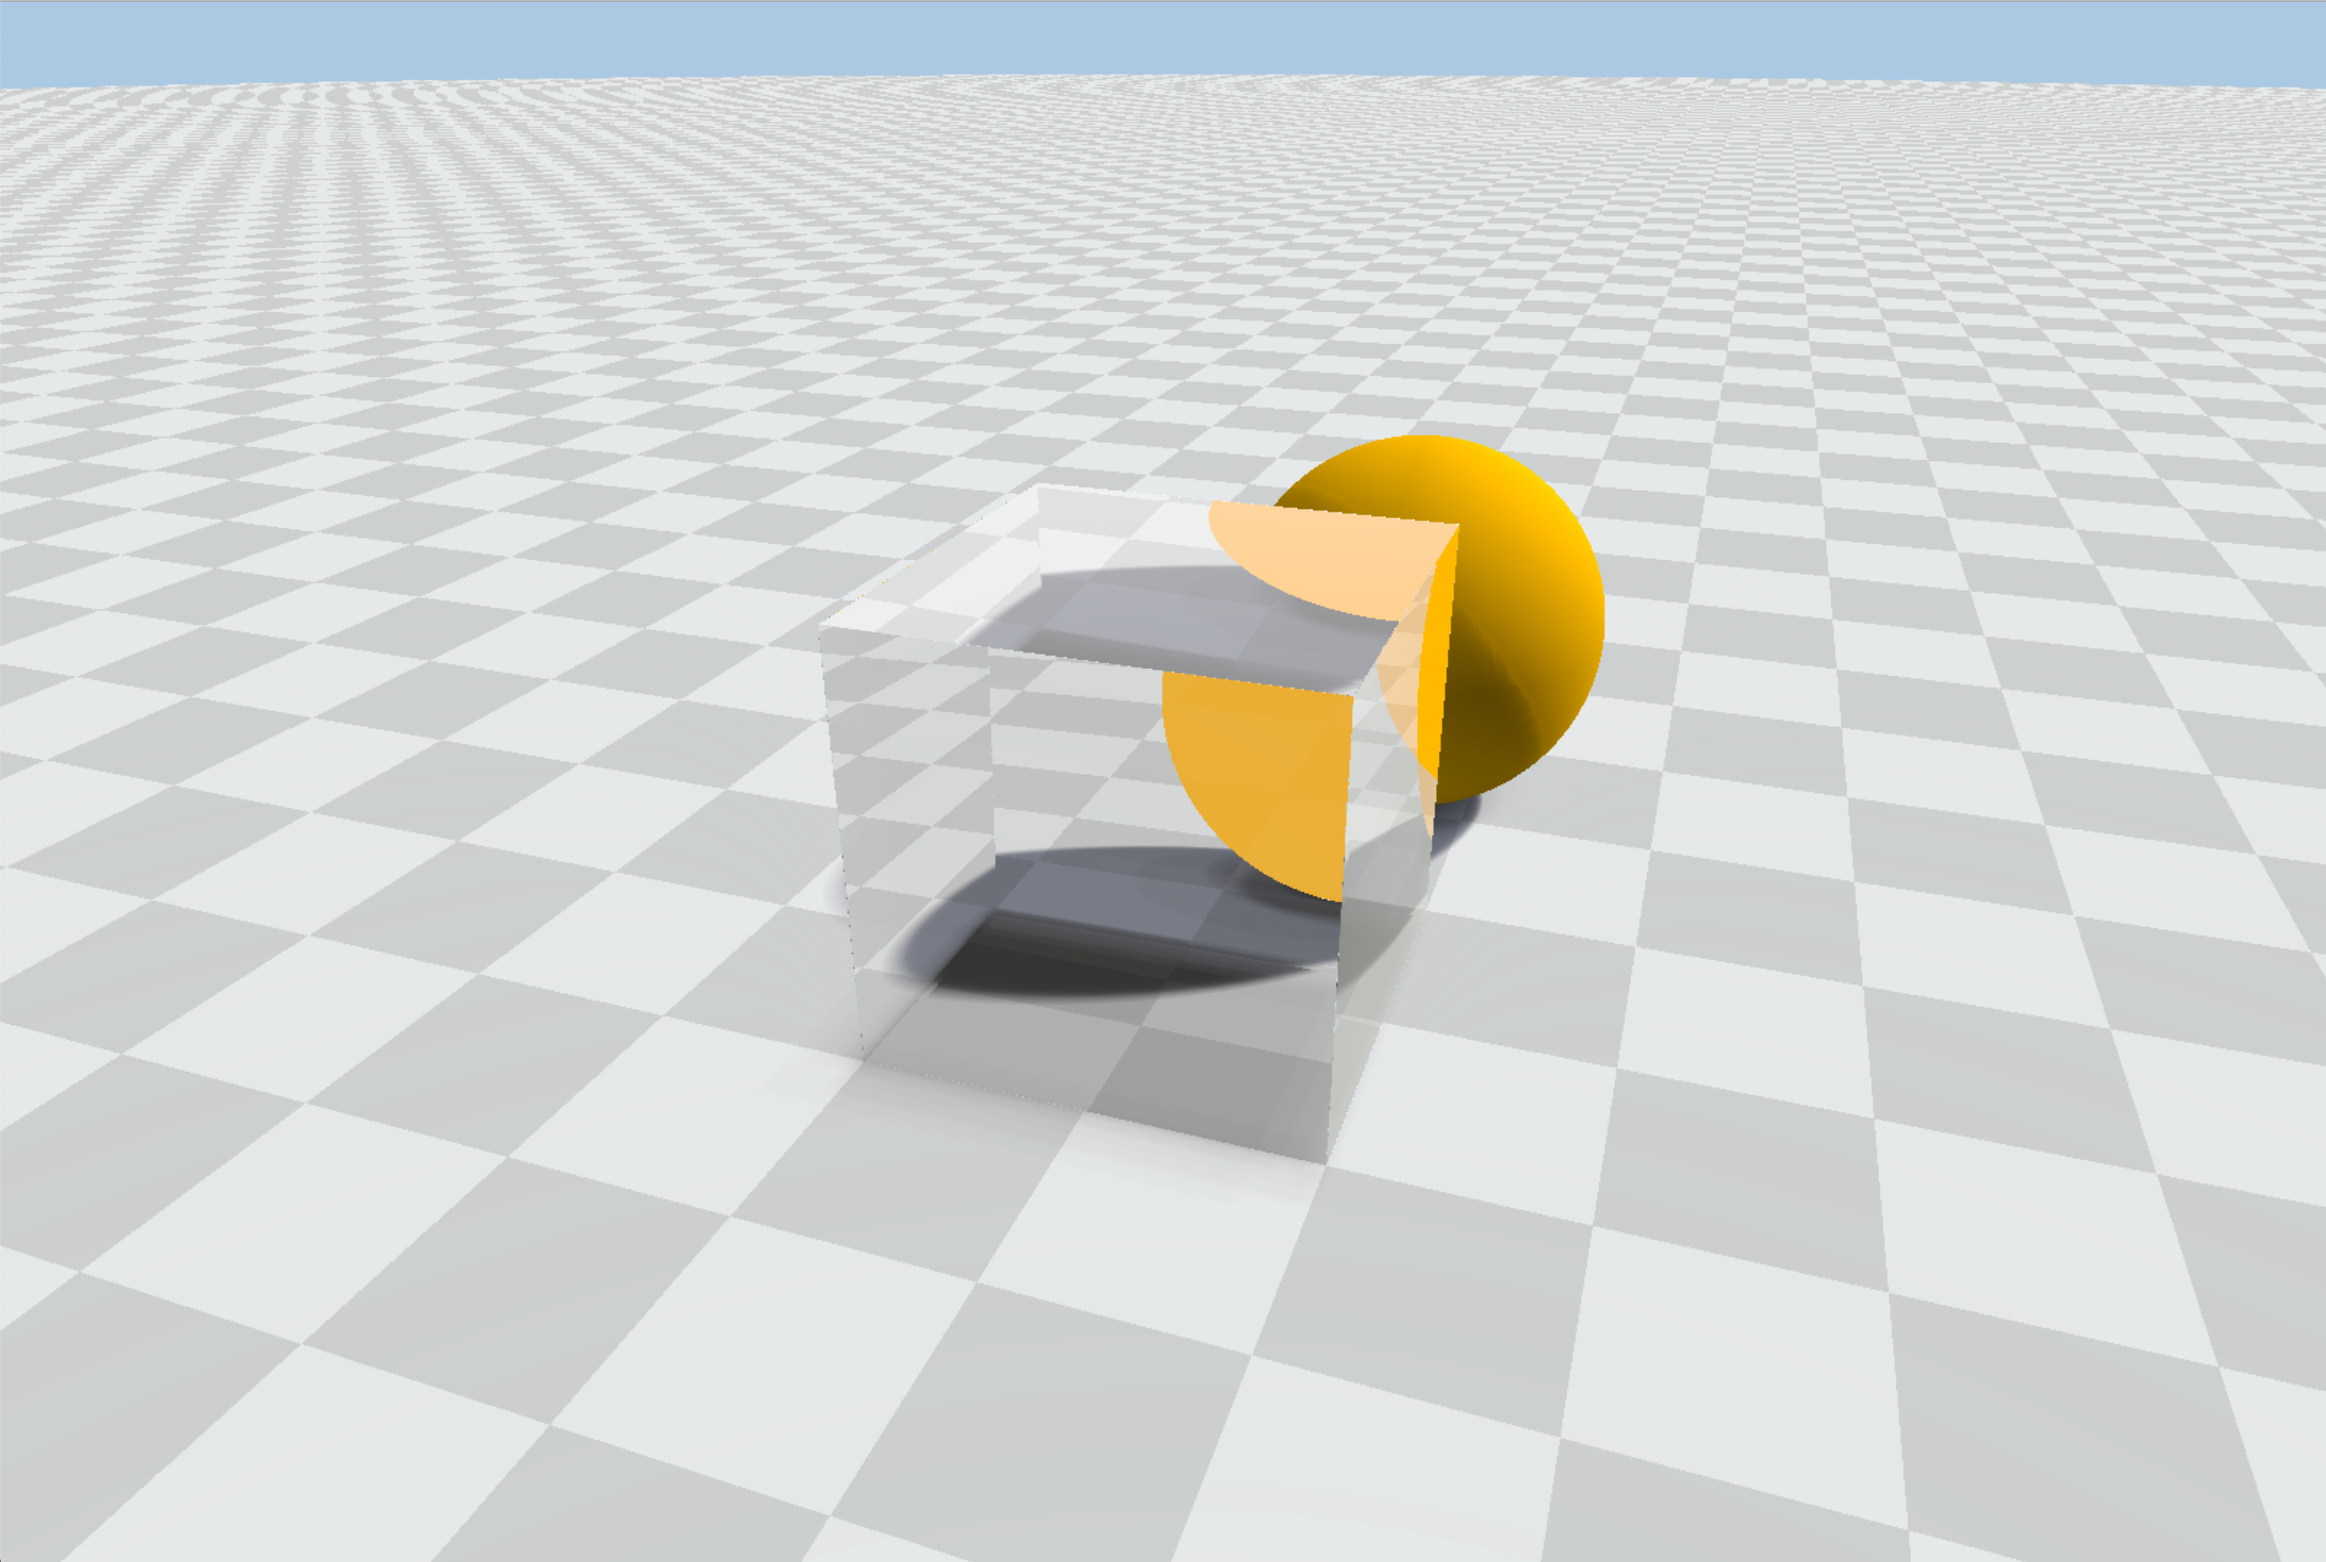
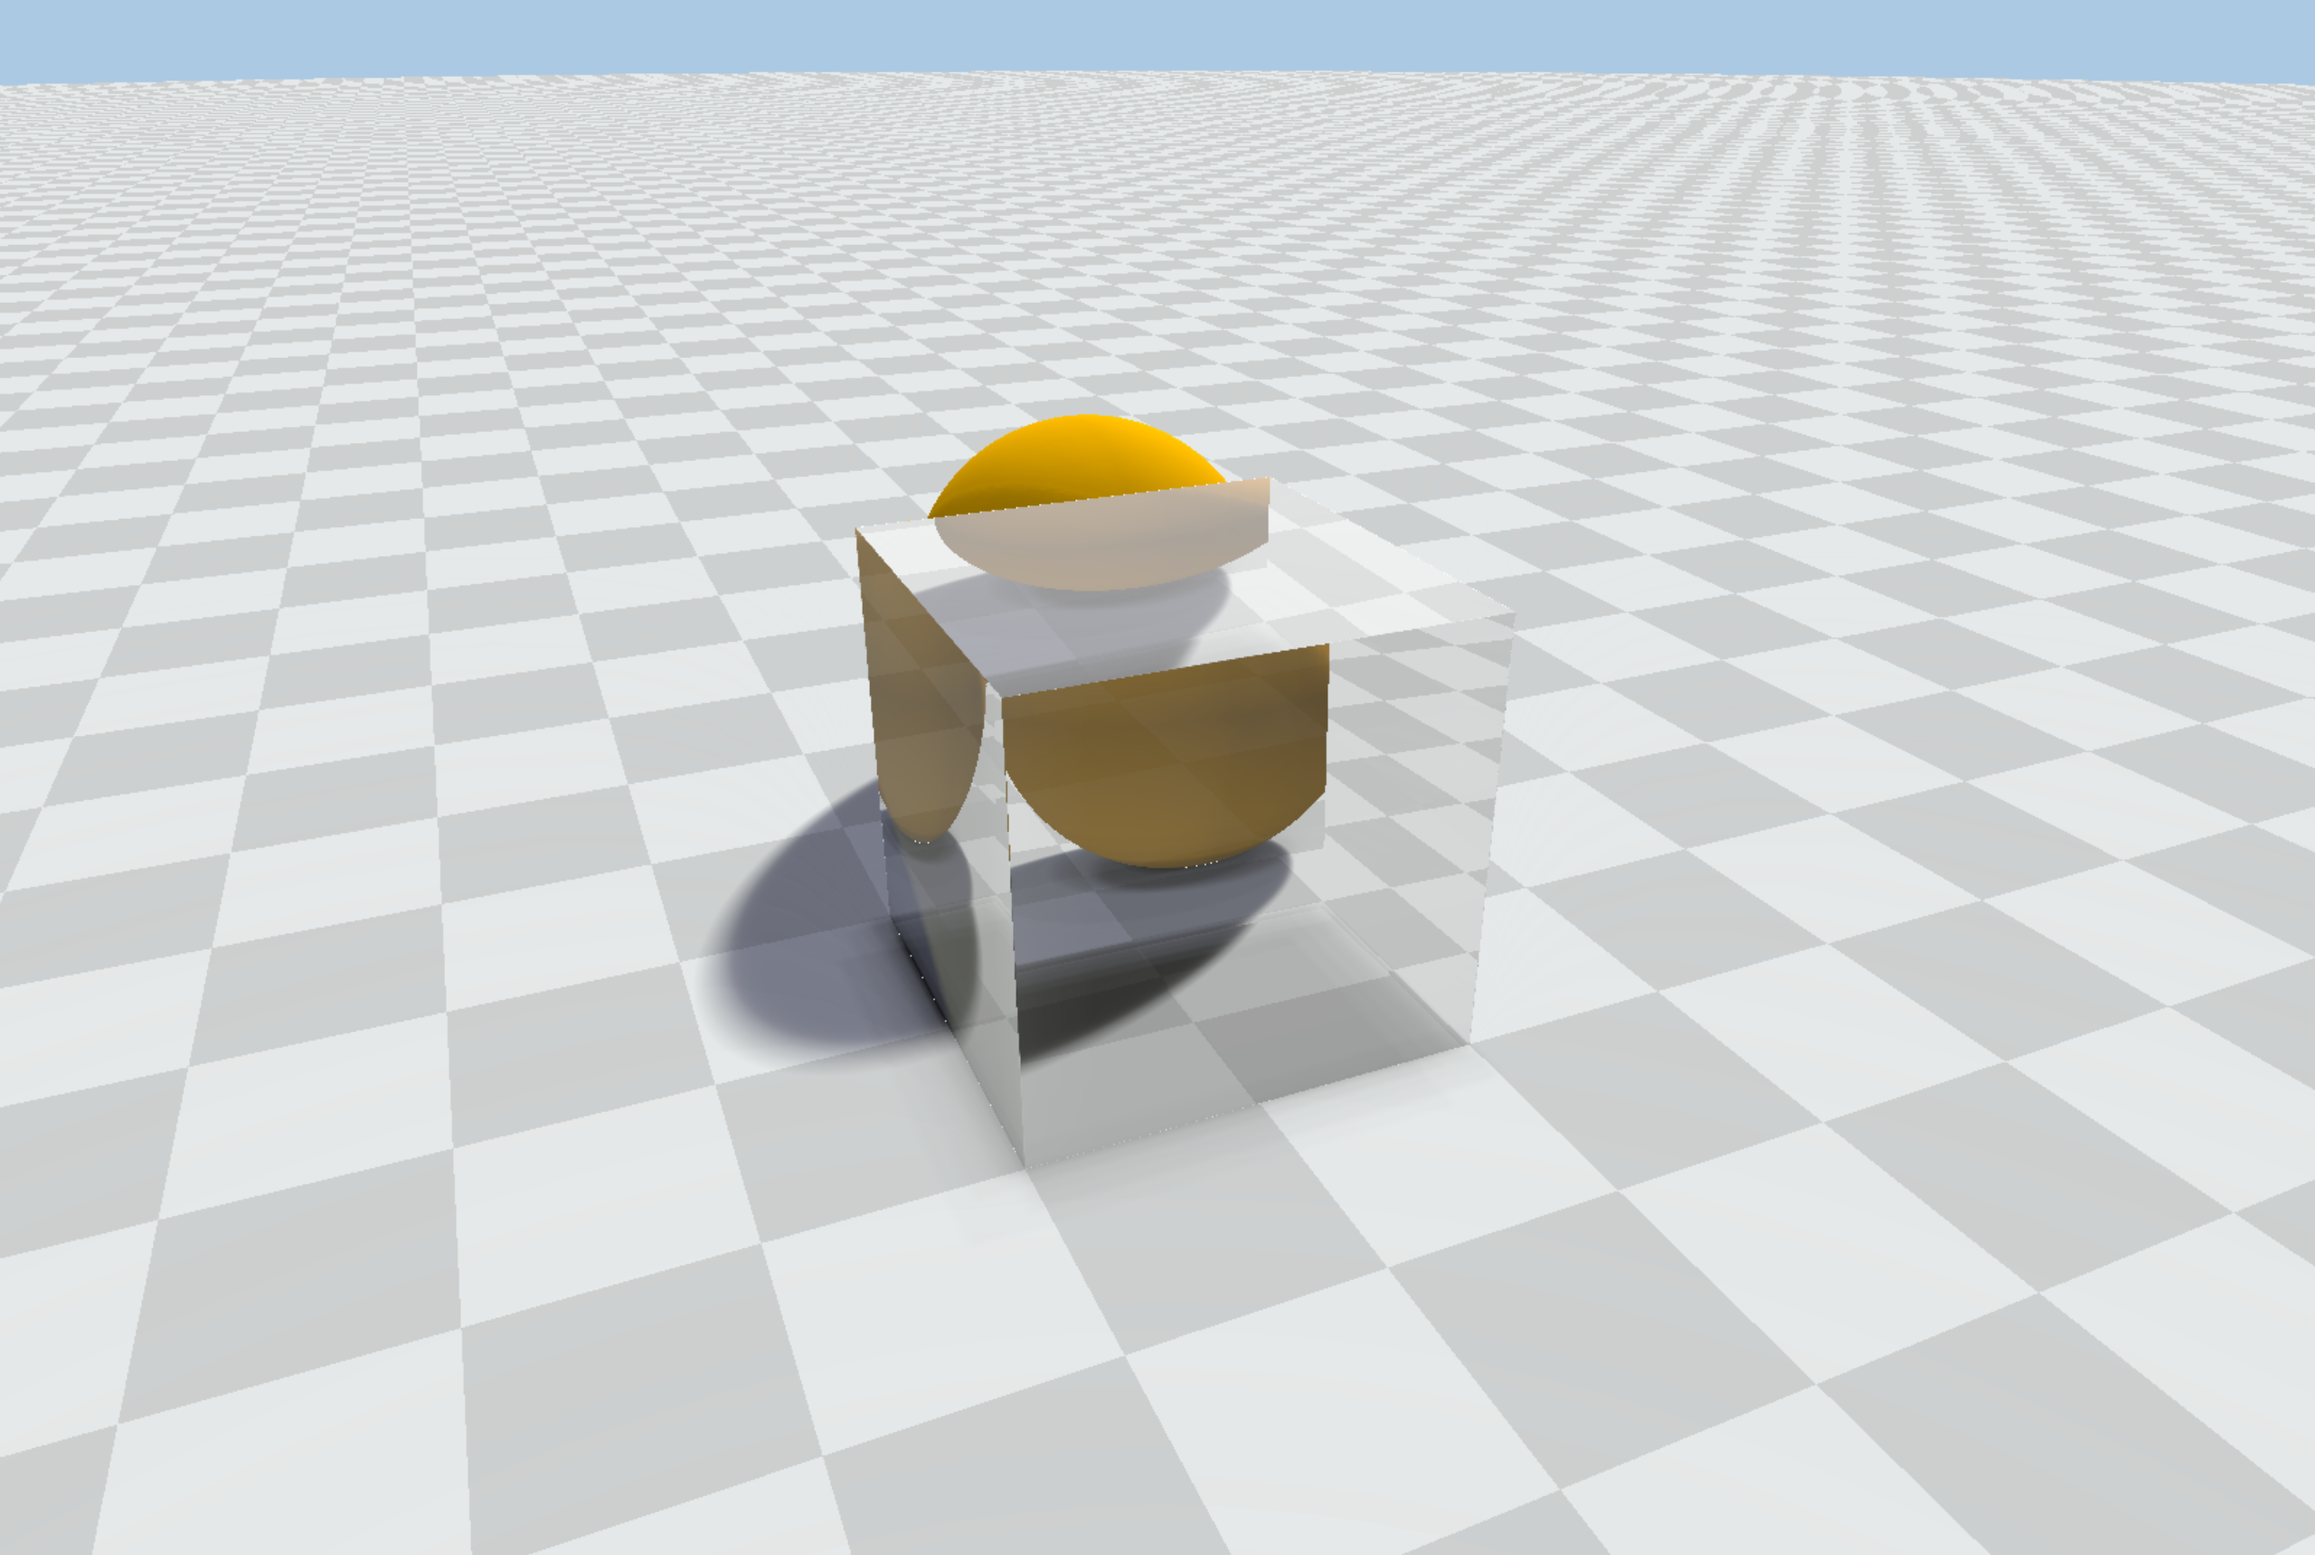
Fixed a bug

diff --git a/_posts/2020-5-1-refraction.md b/_posts/2020-5-1-refraction.md
@@ -1284,19 +1284,17 @@ void main() {
     vec3 light = vec3(1.0);
     vec3 refl = vec3(0.0);
     
-    vec3 objColor = vec3(0.0);
+        vec3 objColor = vec3(0.0);
     if ((info.y > 0.0 && info.y < 1.0) || (info.y > 2.0)) {
-        // ground
         objColor = getColor(info.y, pos, rd) * getLight(pos, n, lightDir);
         objColor = pow(objColor, vec3(0.4545));
     } else if (info.y > 1.0 && info.y < 2.0) {
-        // block
         float fresnel = clamp(1.0 + dot(rd, n), 0.0, 1.0);
         vec3 reflected = reflect(rd, n);
         info = trace(pos + n * 1e-3, reflected);
         vec3 reflectedPos = pos + reflected * info.x;
         vec3 reflectedN = getNormal(reflectedPos);
-        if (info.y > 0.0 && info.y < 1.0) {
+        if ((info.y > 0.0 && info.y < 1.0) || (info.y > 2.0)) {
             light = getLight(pos, n, lightDir);
         }
         refl = getColor(info.y, reflectedPos, reflected) * light;
@@ -1314,7 +1312,7 @@ void main() {
         n = getNormalFinal(pos);
 
         light = vec3(1.0);
-        if (info.y > 0.0 && info.y < 1.0) {
+        if ((info.y > 0.0 && info.y < 1.0) || (info.y > 2.0)) {
             light = getLight(pos, n, lightDir);
         }
         
@@ -1322,7 +1320,6 @@ void main() {
         objColor = mix(refr, refl, pow(fresnel, 5.0) * 0.8 + 0.2);
         objColor = pow(objColor, vec3(0.4545));
     } else {
-        // sky
         objColor = getColor(info.y, pos, rd);
     }
 
